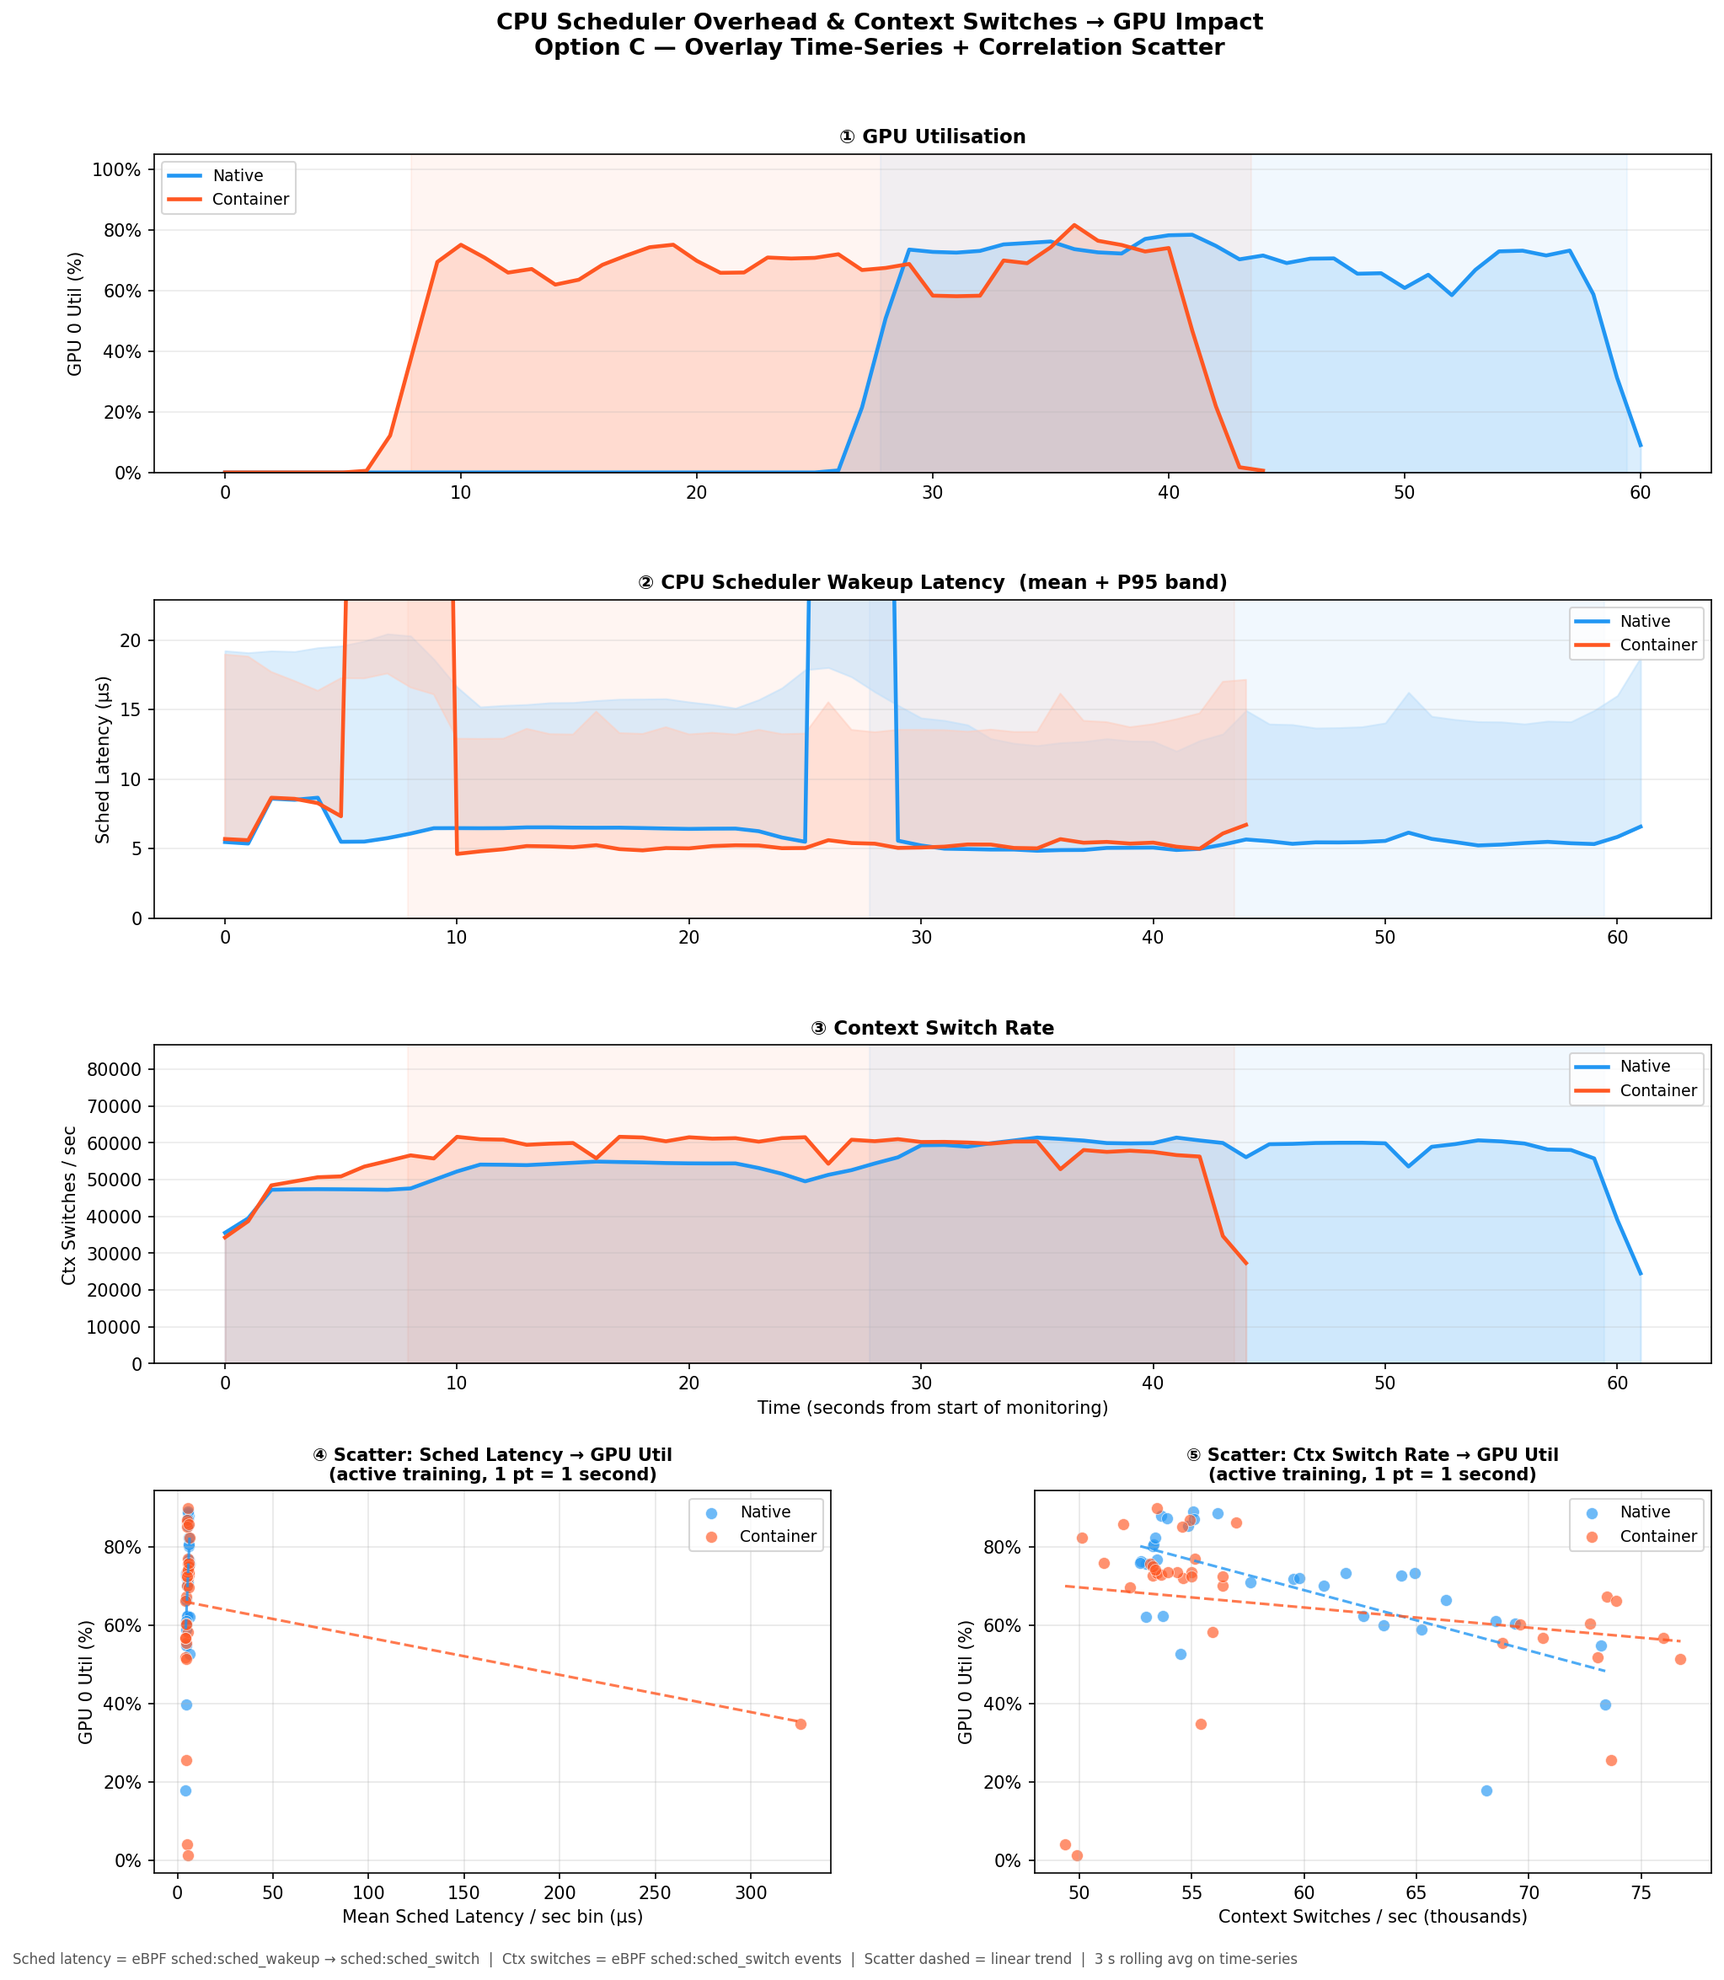
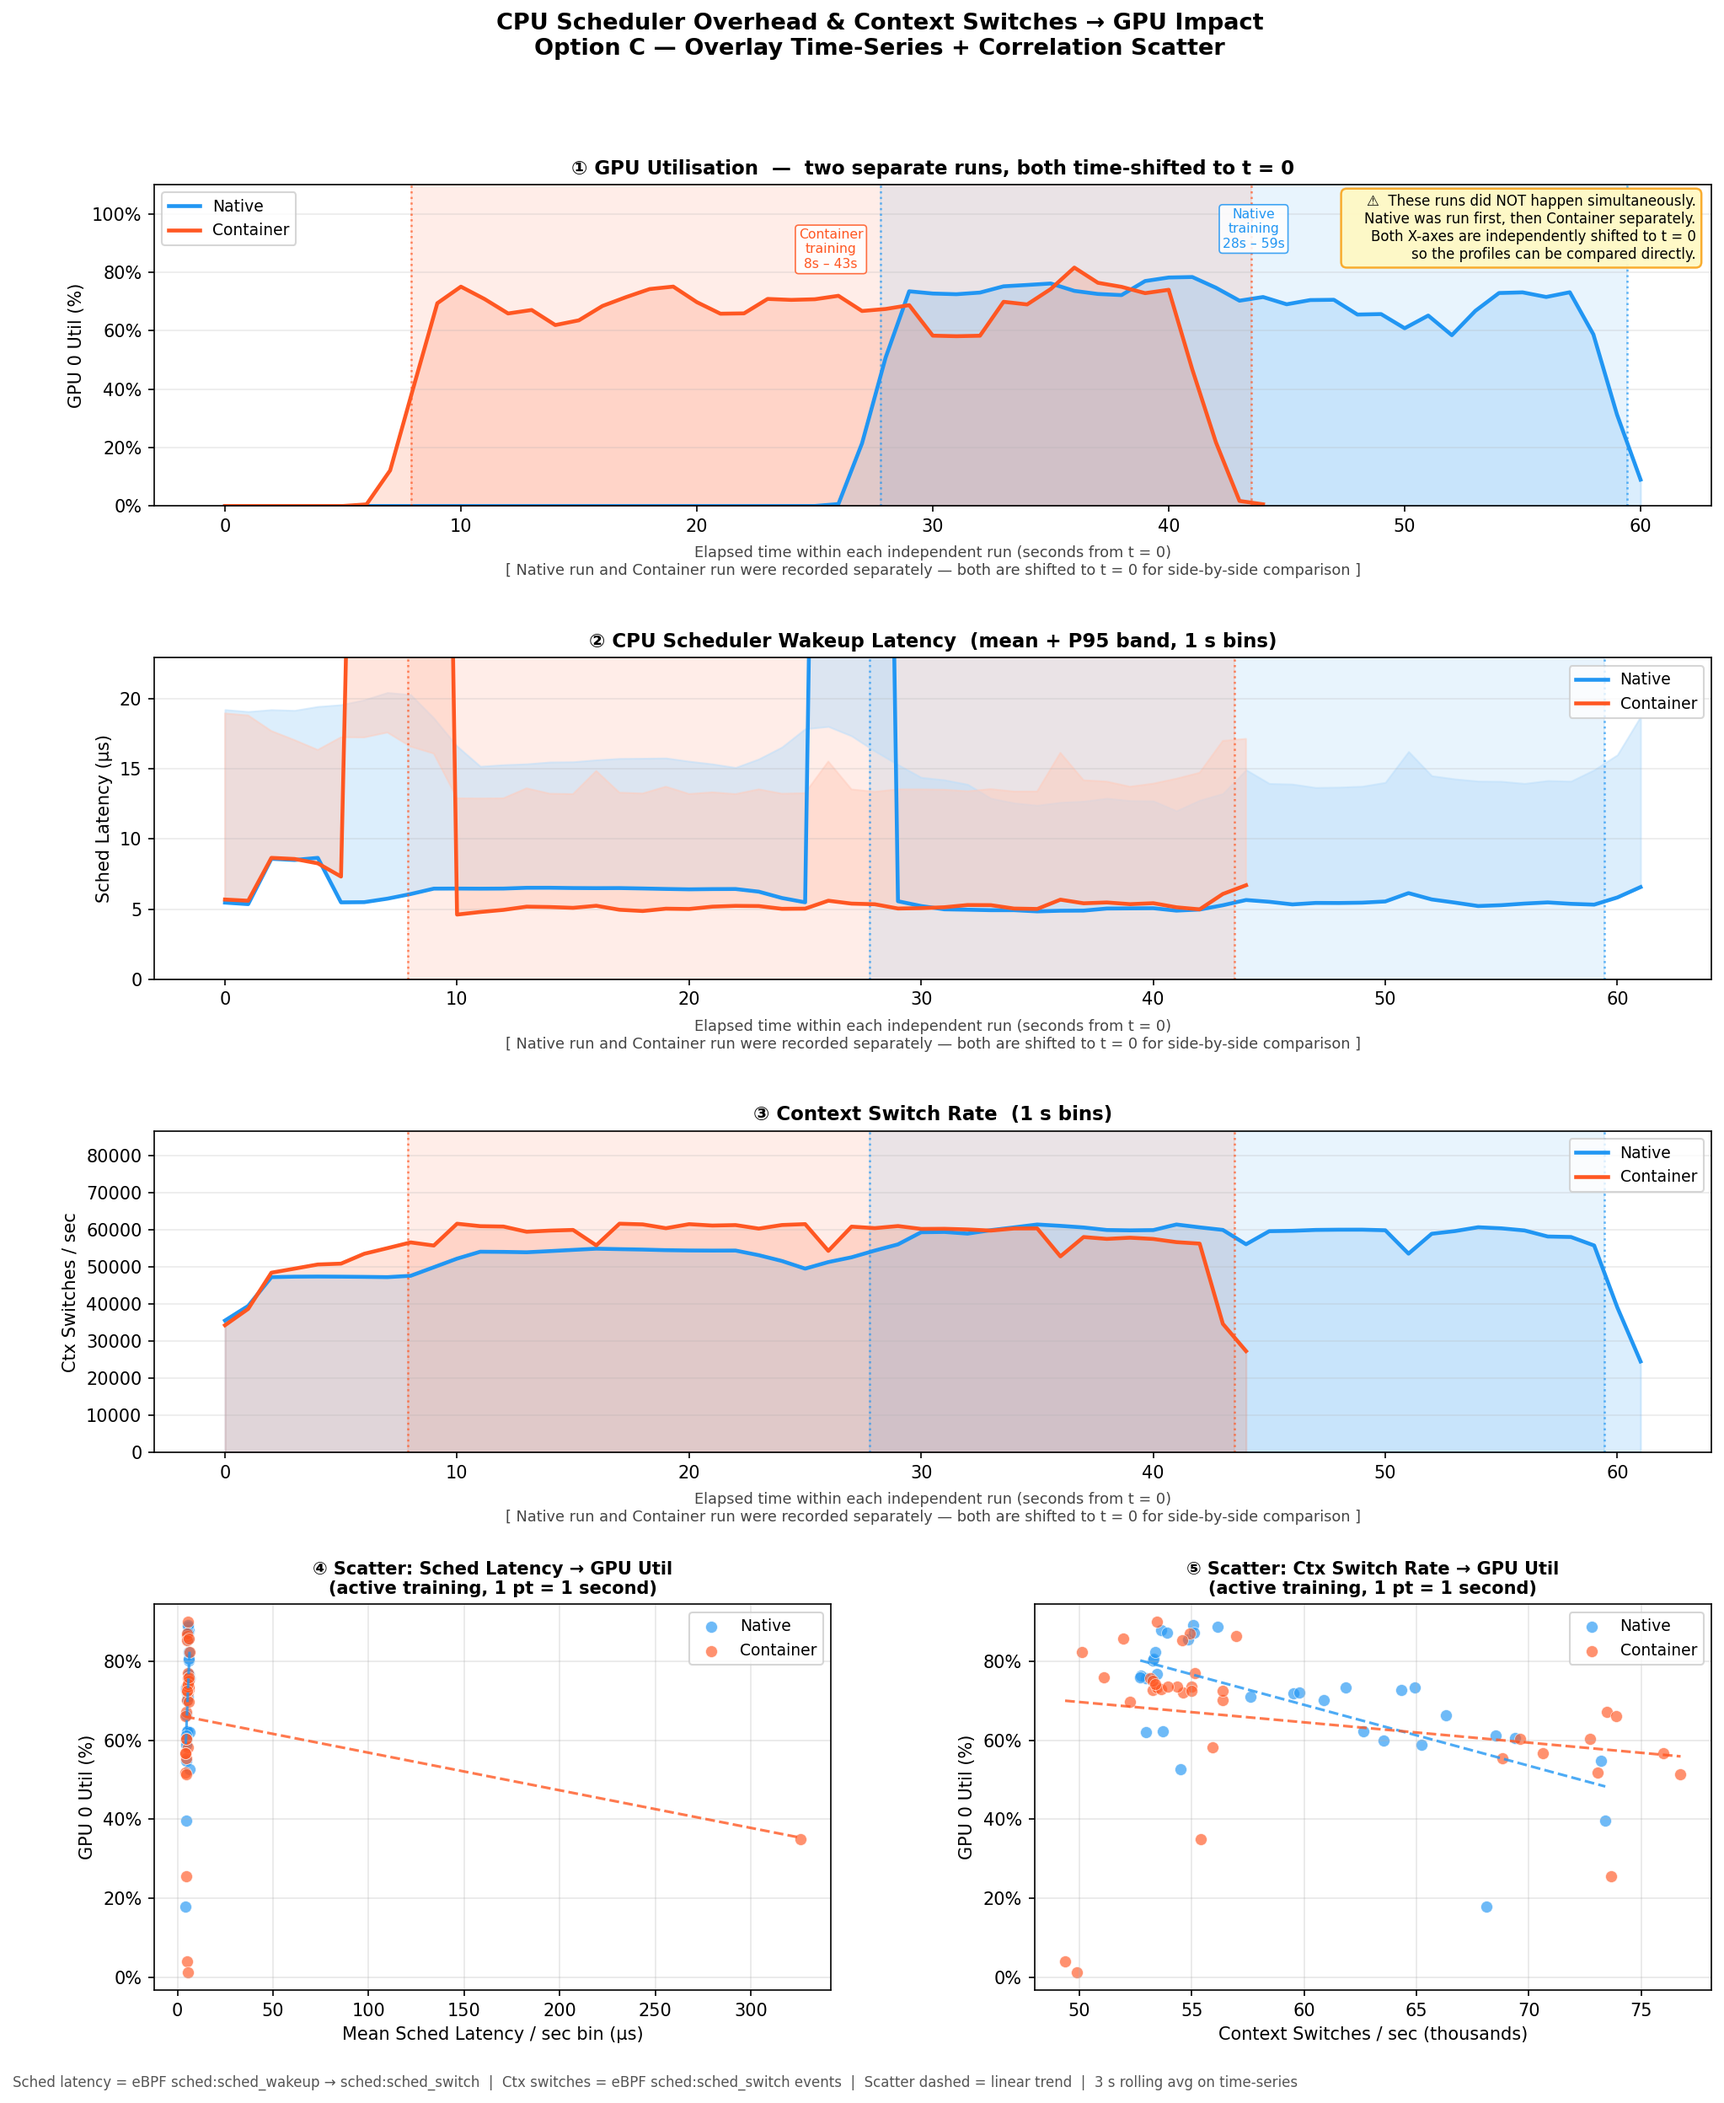
Fix 12C: clarify separate runs normalised to t=0, add training window markers and X-axis labels

diff --git a/G_21_cpu_gpu_correlation_plot.py b/G_21_cpu_gpu_correlation_plot.py
@@ -374,11 +374,11 @@ def plot_option_c(n_gpu, n_sched, n_ctx, n_act,
                   c_gpu, c_sched, c_ctx, c_act,
                   sched_max, ctx_max):
     print("\n[Plot C] Overlay + scatter …", flush=True)
-    fig = plt.figure(figsize=(14, 16))
+    fig = plt.figure(figsize=(14, 17))
     gs  = fig.add_gridspec(4, 2,
                            height_ratios=[1, 1, 1, 1.2],
-                           hspace=0.38, wspace=0.30,
-                           top=0.91, bottom=0.06,
+                           hspace=0.45, wspace=0.30,
+                           top=0.90, bottom=0.06,
                            left=0.09, right=0.97)
 
     fig.suptitle(
@@ -393,7 +393,14 @@ def plot_option_c(n_gpu, n_sched, n_ctx, n_act,
     ax_sc1   = fig.add_subplot(gs[3, 0])
     ax_sc2   = fig.add_subplot(gs[3, 1])
 
-    # ── Rows 1-3: same as Option B (compact) ─────────────────────────────────
+    # Shared X-axis label explaining normalisation — added to each time-series panel
+    XAXIS_LABEL = (
+        "Elapsed time within each independent run (seconds from t = 0)\n"
+        "[ Native run and Container run were recorded separately — "
+        "both are shifted to t = 0 for side-by-side comparison ]"
+    )
+
+    # ── Rows 1-3 ─────────────────────────────────────────────────────────────
     for (gpu, sched, ctx, act, color, light, label) in [
         (n_gpu, n_sched, n_ctx, n_act, NC, NL, "Native"),
         (c_gpu, c_sched, c_ctx, c_act, CC, CL, "Container"),
@@ -415,29 +422,59 @@ def plot_option_c(n_gpu, n_sched, n_ctx, n_act,
         ax_ctx.plot(ctx["t_bin"], smooth(ctx["ctx_per_sec"]),
                     color=color, lw=2.2, label=label)
 
-        # active window
+        # Shade active training window + vertical markers with labels
         for ax in [ax_gpu, ax_sched, ax_ctx]:
-            ax.axvspan(act[0], act[1], color=color, alpha=0.06, zorder=0)
+            ax.axvspan(act[0], act[1], color=color, alpha=0.10, zorder=0)
+            ax.axvline(act[0], color=color, lw=1.2, ls=":", alpha=0.7)
+            ax.axvline(act[1], color=color, lw=1.2, ls=":", alpha=0.7)
 
-    ax_gpu.set_ylim(0, 105)
+        # Label the training window on the GPU panel only (keeps it uncluttered)
+        ypos = 102 if color == NC else 95
+        ax_gpu.annotate(
+            f"{label}\ntraining\n{act[0]:.0f}s – {act[1]:.0f}s",
+            xy=((act[0] + act[1]) / 2, ypos),
+            ha="center", va="top", fontsize=7.5, color=color,
+            bbox=dict(boxstyle="round,pad=0.25", fc="white", ec=color,
+                      alpha=0.85, lw=0.8),
+        )
+
+    ax_gpu.set_ylim(0, 110)
     ax_gpu.set_ylabel("GPU 0 Util (%)", fontsize=10)
     ax_gpu.legend(loc="upper left", fontsize=9, framealpha=0.8)
-    ax_gpu.set_title("① GPU Utilisation", fontsize=11, fontweight="bold")
+    ax_gpu.set_title(
+        "① GPU Utilisation  —  two separate runs, both time-shifted to t = 0",
+        fontsize=11, fontweight="bold"
+    )
     ax_gpu.grid(True, alpha=0.25, axis="y")
     ax_gpu.yaxis.set_major_formatter(plt.FuncFormatter(lambda v, _: f"{v:.0f}%"))
+    ax_gpu.set_xlabel(XAXIS_LABEL, fontsize=8.5, color="#444444", labelpad=6)
+
+    # Prominent note box inside the GPU panel
+    ax_gpu.text(
+        0.99, 0.97,
+        "⚠  These runs did NOT happen simultaneously.\n"
+        "    Native was run first, then Container separately.\n"
+        "    Both X-axes are independently shifted to t = 0\n"
+        "    so the profiles can be compared directly.",
+        transform=ax_gpu.transAxes,
+        va="top", ha="right", fontsize=8,
+        bbox=dict(boxstyle="round,pad=0.4", facecolor="#FFF9C4",
+                  edgecolor="#F9A825", alpha=0.95, lw=1.2),
+    )
 
     ax_sched.set_ylim(0, sched_max * 1.15)
     ax_sched.set_ylabel("Sched Latency (μs)", fontsize=10)
     ax_sched.legend(loc="upper right", fontsize=9, framealpha=0.8)
-    ax_sched.set_title("② CPU Scheduler Wakeup Latency  (mean + P95 band)",
+    ax_sched.set_title("② CPU Scheduler Wakeup Latency  (mean + P95 band, 1 s bins)",
                        fontsize=11, fontweight="bold")
     ax_sched.grid(True, alpha=0.25, axis="y")
+    ax_sched.set_xlabel(XAXIS_LABEL, fontsize=8.5, color="#444444", labelpad=6)
 
     ax_ctx.set_ylim(0, ctx_max)
     ax_ctx.set_ylabel("Ctx Switches / sec", fontsize=10)
-    ax_ctx.set_xlabel("Time (seconds from start of monitoring)", fontsize=10)
+    ax_ctx.set_xlabel(XAXIS_LABEL, fontsize=8.5, color="#444444", labelpad=6)
     ax_ctx.legend(loc="upper right", fontsize=9, framealpha=0.8)
-    ax_ctx.set_title("③ Context Switch Rate", fontsize=11, fontweight="bold")
+    ax_ctx.set_title("③ Context Switch Rate  (1 s bins)", fontsize=11, fontweight="bold")
     ax_ctx.grid(True, alpha=0.25, axis="y")
 
     # ── Scatter 1: Sched latency vs GPU util ─────────────────────────────────
